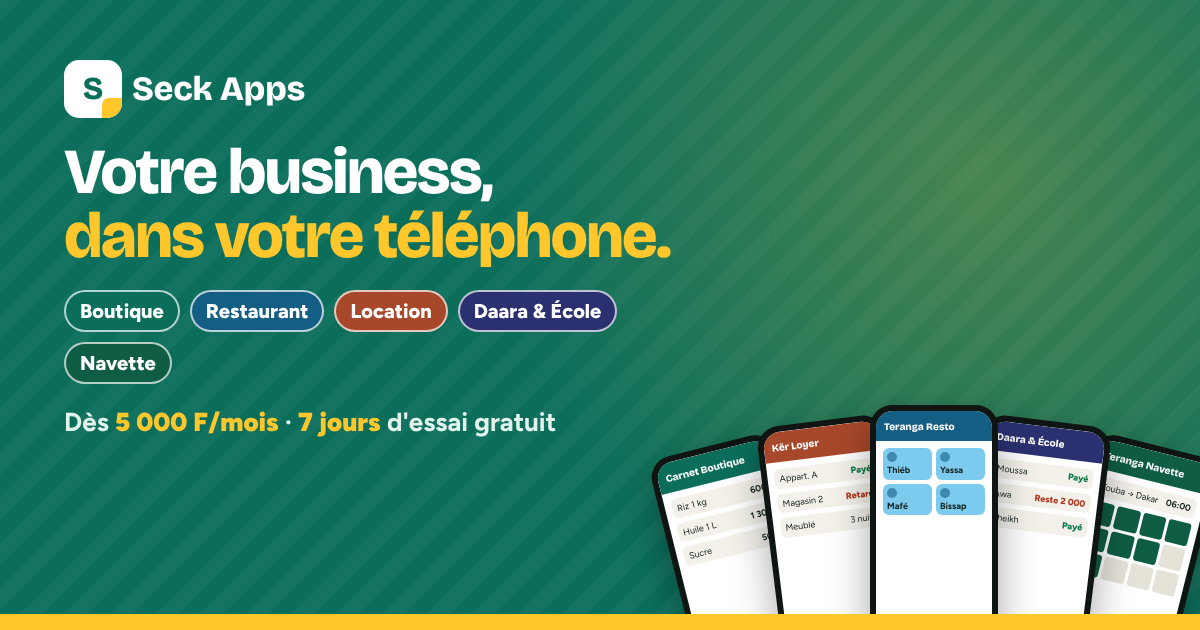
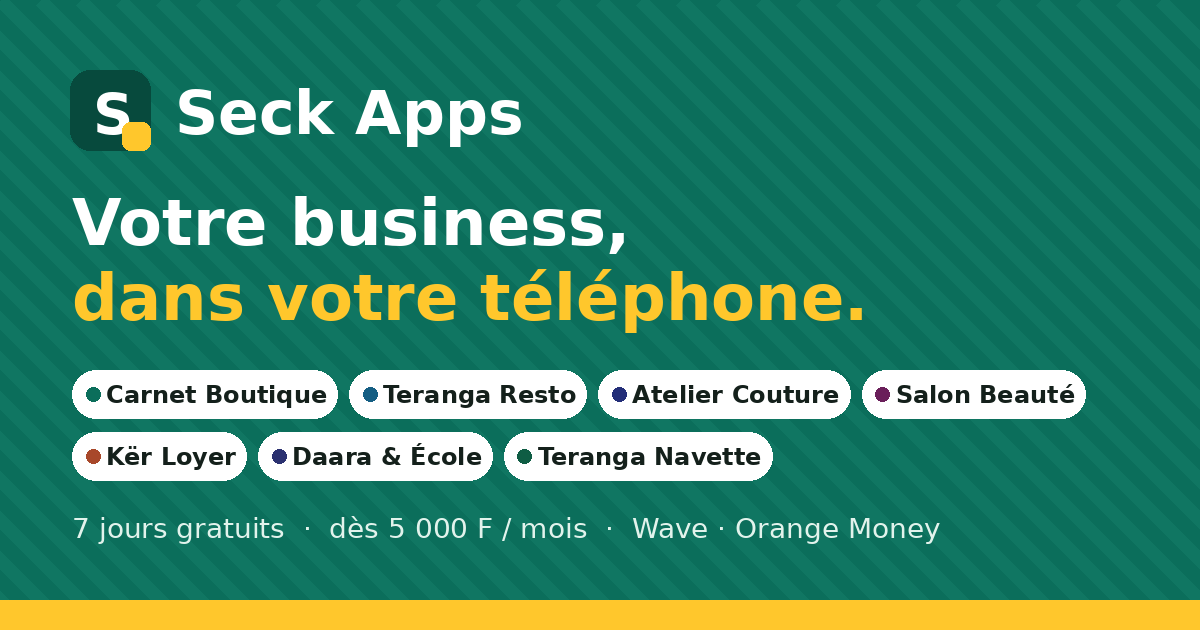
Add files via upload

diff --git a/index.html b/index.html
@@ -4,9 +4,9 @@
 <meta charset="utf-8">
 <meta name="viewport" content="width=device-width, initial-scale=1, viewport-fit=cover">
 <meta name="theme-color" content="#0B6E5B">
-<meta name="description" content="Cinq applications simples pour boutiques, restaurants, locations, daaras et navettes au Sénégal. 7 jours d'essai gratuit, dès 5 000 F/mois.">
+<meta name="description" content="Sept applications simples pour boutiques, restaurants, ateliers de couture, salons de beauté, locations, daaras et navettes au Sénégal. 7 jours d'essai gratuit, dès 5 000 F/mois.">
 <meta property="og:title" content="Seck Apps — Votre business dans votre téléphone">
-<meta property="og:description" content="Boutique, restaurant, location, daara, navette. Dès 5 000 F/mois. 7 jours d'essai gratuit. Wave et Orange Money.">
+<meta property="og:description" content="Boutique, restaurant, couture, salon de beauté, location, daara, navette. Dès 5 000 F/mois. 7 jours d'essai gratuit. Wave et Orange Money.">
 <meta property="og:image" content="https://seckappssn-maker.github.io/seckappssn/copertina.png">
 <meta property="og:image:width" content="1200">
 <meta property="og:image:height" content="630">
@@ -28,6 +28,8 @@
   --loyer:#A8482A;    --loyer-2:#F6C7A8;
   --daara:#2B3170;    --daara-2:#B9BEF5;
   --navette:#0F5D44;  --navette-2:#F2B33D;
+  --couture:#232E78;  --couture-2:#E8B04B;
+  --salon:#6A1F5A;    --salon-2:#F2B08F;
   --display:"Bricolage Grotesque","Arial Narrow",system-ui,sans-serif;
   --body:"Figtree",system-ui,-apple-system,"Segoe UI",Roboto,sans-serif;
   color-scheme:light;
@@ -75,20 +77,21 @@ a{color:inherit}
 
 /* Les cinq écrans en éventail */
 .fan{display:flex;justify-content:center;align-items:flex-end;height:250px;margin-top:8px;position:relative}
-.fan .ph{width:132px;flex:none;margin-inline:-14px;transform-origin:bottom center;box-shadow:0 18px 40px rgba(0,0,0,.35)}
-.fan .ph:nth-child(1){transform:rotate(-14deg) translateY(28px)}
-.fan .ph:nth-child(2){transform:rotate(-7deg) translateY(8px)}
-.fan .ph:nth-child(3){transform:translateY(-6px);z-index:3}
-.fan .ph:nth-child(4){transform:rotate(7deg) translateY(8px);z-index:2}
-.fan .ph:nth-child(5){transform:rotate(14deg) translateY(28px);z-index:1}
-.fan .ph:nth-child(2){z-index:2}
+.fan .ph{width:124px;flex:none;margin-inline:-16px;transform-origin:bottom center;box-shadow:0 18px 40px rgba(0,0,0,.35)}
+.fan .ph:nth-child(1){transform:rotate(-18deg) translateY(46px);z-index:1}
+.fan .ph:nth-child(2){transform:rotate(-12deg) translateY(22px);z-index:2}
+.fan .ph:nth-child(3){transform:rotate(-6deg) translateY(6px);z-index:3}
+.fan .ph:nth-child(4){transform:translateY(-4px);z-index:4}
+.fan .ph:nth-child(5){transform:rotate(6deg) translateY(6px);z-index:3}
+.fan .ph:nth-child(6){transform:rotate(12deg) translateY(22px);z-index:2}
+.fan .ph:nth-child(7){transform:rotate(18deg) translateY(46px);z-index:1}
 @media (prefers-reduced-motion:no-preference){
   .fan .ph{animation:rise .7s cubic-bezier(.2,.8,.2,1) both}
-  .fan .ph:nth-child(2){animation-delay:.06s}.fan .ph:nth-child(3){animation-delay:.12s}
-  .fan .ph:nth-child(4){animation-delay:.18s}.fan .ph:nth-child(5){animation-delay:.24s}
+  .fan .ph:nth-child(2){animation-delay:.05s}.fan .ph:nth-child(3){animation-delay:.1s}.fan .ph:nth-child(4){animation-delay:.15s}
+  .fan .ph:nth-child(5){animation-delay:.2s}.fan .ph:nth-child(6){animation-delay:.25s}.fan .ph:nth-child(7){animation-delay:.3s}
 }
 @keyframes rise{from{translate:0 40px}to{translate:0 0}}
-@media (max-width:520px){.fan{height:200px}.fan .ph{width:104px;margin-inline:-18px}}
+@media (max-width:520px){.fan{height:170px}.fan .ph{width:76px;margin-inline:-12px}.fan .scr{font-size:7px}.fan .scr .bar{font-size:8px;padding:8px 5px 6px}.fan .scr .tot{font-size:8px}}
 
 /* ---------- Téléphone (mini écran) ---------- */
 .ph{background:#0E1512;border-radius:22px;padding:6px;aspect-ratio:9/18.5;max-width:100%}
@@ -110,7 +113,7 @@ a{color:inherit}
 /* ---------- Bandeau de navigation par métier ---------- */
 .pick{padding-block:30px 6px}
 .pick h2{font-size:clamp(26px,5vw,38px);font-weight:800;letter-spacing:-.02em}
-.chipnav{display:grid;grid-template-columns:repeat(5,1fr);gap:10px;margin-top:16px}
+.chipnav{display:grid;grid-template-columns:repeat(4,1fr);gap:10px;margin-top:16px}
 .chipnav a{display:flex;flex-direction:column;gap:6px;text-decoration:none;background:var(--paper);border:1.5px solid var(--line);border-radius:16px;padding:14px 12px;min-width:0}
 .chipnav b{font-family:var(--display);font-size:17px;line-height:1.1}
 .chipnav span{font-size:13px;color:var(--muted)}
@@ -155,12 +158,13 @@ a{color:inherit}
 .app .btns{display:flex;flex-wrap:wrap;gap:10px}
 .app .btns .btn{flex:1 1 170px}
 .app .btn-line{color:var(--c)}
-.more{font-weight:700;color:var(--c);text-underline-offset:3px}
 .boutique{--c:var(--boutique);--c2:var(--boutique-2)}
 .resto{--c:var(--resto);--c2:var(--resto-2)}
 .loyer{--c:var(--loyer);--c2:var(--loyer-2)}
 .daara{--c:var(--daara);--c2:var(--daara-2)}
 .navette{--c:var(--navette);--c2:var(--navette-2)}
+.couture{--c:var(--couture);--c2:var(--couture-2)}
+.salon{--c:var(--salon);--c2:var(--salon-2)}
 .app:nth-child(even){grid-template-columns:.95fr 1.05fr}
 .app:nth-child(even) .side{order:2}
 @media (max-width:820px){
@@ -256,7 +260,7 @@ footer b{color:var(--ink)}
   <div class="wrap">
     <span class="eyebrow">Fait au Sénégal, pour le Sénégal</span>
     <h1>Votre business,<br><em>dans votre téléphone.</em></h1>
-    <p class="lead">Cinq applications simples pour la boutique, le restaurant, la location, la daara et la navette. Tout est noté, calculé et sauvegardé en ligne. En français, avec le wolof.</p>
+    <p class="lead">Sept applications simples pour la boutique, le restaurant, l'atelier de couture, le salon de beauté, la location, la daara et la navette. Tout est noté, calculé et sauvegardé en ligne. En français, avec le wolof.</p>
     <div class="facts">
       <span>7 jours gratuits</span><span>Dès 5 000 F / mois</span><span>Wave · Orange Money</span><span>Téléphone · tablette · ordinateur</span>
     </div>
@@ -264,7 +268,7 @@ footer b{color:var(--ink)}
       <a class="btn btn-gold" data-msg="Bonjour Seck Apps, je veux essayer une application 7 jours gratuits." href="#">
         <svg class="ico" viewBox="0 0 24 24" fill="currentColor" aria-hidden="true"><path d="M12 2a10 10 0 0 0-8.6 15.1L2 22l5-1.3A10 10 0 1 0 12 2zm5.3 14.1c-.2.6-1.3 1.2-1.8 1.2-.5.1-1 .2-3.3-.7-2.8-1.1-4.6-4-4.7-4.1-.1-.2-1.1-1.5-1.1-2.9s.7-2.1 1-2.4c.3-.3.6-.3.8-.3h.6c.2 0 .4 0 .6.5l.9 2.1c.1.2.1.4 0 .5l-.3.5-.4.5c-.1.1-.3.3-.1.6.2.3.8 1.3 1.7 2.1 1.2 1 2.1 1.4 2.4 1.5.3.1.5.1.6-.1l.9-1.1c.2-.3.4-.2.6-.1l2 1c.3.1.5.2.5.3.1.2.1.6-.1 1.2z"/></svg>
         Essayer gratuitement</a>
-      <a class="btn btn-line" href="#apps">Voir les 5 applications</a>
+      <a class="btn btn-line" href="#apps">Voir les 7 applications</a>
     </div>
 
     <div class="fan" aria-hidden="true">
@@ -274,9 +278,15 @@ footer b{color:var(--ink)}
       <div class="ph loyer"><div class="scr"><div class="bar">Kër Loyer</div><div class="in">
         <div class="row"><span>Appart. A</span><span class="ok">Payé</span></div><div class="row"><span>Magasin 2</span><span class="late">Retard</span></div><div class="row"><span>Meublé</span><span>3 nuits</span></div>
         <div class="tot"><span>Octobre</span><span>450 000</span></div></div></div></div>
+      <div class="ph couture"><div class="scr"><div class="bar">Atelier Couture</div><div class="in">
+        <div class="row"><span>Grand boubou</span><span class="pill">Couture</span></div><div class="row"><span>Taille basse</span><span class="ok">Prêt</span></div><div class="row"><span>Kaftan</span><span>Coupe</span></div>
+        <div class="tot"><span>Korité</span><span>147 j</span></div></div></div></div>
       <div class="ph resto"><div class="scr"><div class="bar">Teranga Resto</div><div class="in">
         <div class="tiles"><div class="tile">Thiéb</div><div class="tile">Yassa</div><div class="tile">Mafé</div><div class="tile">Bissap</div></div>
         <div class="tot"><span>Table 4</span><span>7 000 F</span></div></div></div></div>
+      <div class="ph salon"><div class="scr"><div class="bar">Salon Beauté</div><div class="in">
+        <div class="row"><span>09:30 Nattes</span><span class="ok">Payé</span></div><div class="row"><span>11:00 Box braids</span><span>Aïda</span></div><div class="row"><span>14:00 Manucure</span><span class="pill">Prévu</span></div>
+        <div class="tot"><span>Caisse</span><span>27 000 F</span></div></div></div></div>
       <div class="ph daara"><div class="scr"><div class="bar">Daara &amp; École</div><div class="in">
         <div class="row"><span>Moussa</span><span class="ok">Payé</span></div><div class="row"><span>Awa</span><span class="late">Reste 2 000</span></div><div class="row"><span>Cheikh</span><span class="ok">Payé</span></div>
         <div class="tot"><span>Élèves</span><span>86</span></div></div></div></div>
@@ -296,6 +306,8 @@ footer b{color:var(--ink)}
     <nav class="chipnav" aria-label="Applications">
       <a href="#boutique" style="--c:var(--boutique)"><i></i><b>Carnet Boutique</b><span>Commerce, alimentation, quincaillerie</span></a>
       <a href="#resto" style="--c:var(--resto)"><i></i><b>Teranga Resto</b><span>Restaurant, fast-food, dibiterie</span></a>
+      <a href="#couture" style="--c:var(--couture)"><i></i><b>Atelier Couture</b><span>Tailleur, couturière, atelier</span></a>
+      <a href="#salon" style="--c:var(--salon)"><i></i><b>Salon Beauté</b><span>Coiffure, tresses, ongles, barbier</span></a>
       <a href="#loyer" style="--c:var(--loyer)"><i></i><b>Kër Loyer</b><span>Propriétaire, agence, meublés</span></a>
       <a href="#daara" style="--c:var(--daara)"><i></i><b>Daara &amp; École</b><span>Daara, franco-arabe, école privée</span></a>
       <a href="#navette" style="--c:var(--navette)"><i></i><b>Teranga Navette</b><span>Transport, navette, aéroport</span></a>
@@ -369,9 +381,75 @@ footer b{color:var(--ink)}
         </div>
         <div class="btns">
           <a class="btn btn-wa" data-msg="Bonjour, je veux essayer Teranga Resto 7 jours gratuits pour mon restaurant." href="#">Essayer 7 jours</a>
-          <a class="btn btn-line" href="https://seckappssn-maker.github.io/terangaresto/" target="_blank" rel="noopener">Ouvrir l'app</a>
+          <a class="btn btn-line" href="https://seckappssn-maker.github.io/terangaresto/menu.html" target="_blank" rel="noopener">Voir un menu exemple</a>
         </div>
-        <a class="more" href="https://seckappssn-maker.github.io/terangaresto/menu.html" target="_blank" rel="noopener">Voir un exemple de page menu pour vos clients →</a>
+      </div>
+    </article>
+
+    <!-- COUTURE -->
+    <article class="app couture" id="couture">
+      <div class="side">
+        <div class="tagline"><span class="badge">Nouveau</span></div>
+        <p class="for">Pour tailleurs, couturières et ateliers de couture</p>
+        <h3>Atelier Couture</h3>
+        <p class="pitch">Les mesures, les commandes et les avances, sans le cahier. Vos clients suivent leur habit en ligne.</p>
+        <div class="phone-wrap"><div class="ph"><div class="scr"><div class="bar">Commandes <small>Korité · 147 j</small></div><div class="in">
+          <div class="row"><span>Mamadou · Grand boubou</span><span class="pill">Finition</span></div>
+          <div class="row"><span>Awa · Taille basse</span><span class="ok">Prêt</span></div>
+          <div class="row"><span>Fatou · Robe</span><span>Couture</span></div>
+          <div class="row"><span>Ibrahima · Kaftan</span><span class="late">1 j de retard</span></div>
+          <div class="row" style="background:#FDF1D8"><span>Mesures · Awa</span><span>12 ✓</span></div>
+          <div class="tot"><span>Reste à encaisser</span><span>93 000 F</span></div></div></div></div></div>
+      </div>
+      <div class="main">
+        <ul class="feat">
+          <li><span><b>Mesures</b> homme, femme et enfant, gardées pour toutes les prochaines commandes</span></li>
+          <li><span><b>Commandes</b> avec la photo du modèle, le tissu et la date de livraison</span></li>
+          <li><span><b>Avances et reste à payer</b>, rappel de paiement sur WhatsApp</span></li>
+          <li><span>Étapes <b>Coupe, Couture, Finition, Prêt</b> et message « c'est prêt » au client</span></li>
+          <li><span><b>Vos modèles en vitrine</b> avec photos et prix : les clients commandent</span></li>
+          <li><span>Compte à rebours <b>Korité et Tabaski</b></span></li>
+        </ul>
+        <div class="extra"><strong>Inclus :</strong><span>l'espace client. Avec son numéro et son code, le client voit ses commandes, envoie la photo du modèle et ses mesures, prend rendez-vous.</span></div>
+        <div class="price"><div><span class="amount">5 000 F</span> <span class="per">/ mois</span></div>
+          <p class="year">Ou <b>50 000 F l'année</b> : 2 mois offerts</p></div>
+        <div class="btns">
+          <a class="btn btn-wa" data-msg="Bonjour, je veux essayer Atelier Couture 7 jours gratuits pour mon atelier." href="#">Essayer 7 jours</a>
+          <a class="btn btn-line" href="https://seckappssn-maker.github.io/atelier-couture/" target="_blank" rel="noopener">Ouvrir l'app</a>
+        </div>
+      </div>
+    </article>
+
+    <!-- SALON -->
+    <article class="app salon" id="salon">
+      <div class="side">
+        <div class="tagline"><span class="badge">Nouveau</span></div>
+        <p class="for">Pour salons de coiffure, tresses, onglerie, maquillage, barbiers</p>
+        <h3>Salon Beauté</h3>
+        <p class="pitch">L'agenda du salon, la caisse du jour et les clientes fidèles. Elles réservent en ligne.</p>
+        <div class="phone-wrap"><div class="ph"><div class="scr"><div class="bar">Aujourd'hui <small>3 coiffeuses</small></div><div class="in">
+          <div class="row"><span>09:30 · Nattes collées</span><span class="ok">Payé</span></div>
+          <div class="row"><span>11:00 · Box braids</span><span>Aïda</span></div>
+          <div class="row"><span>14:00 · Manucure gel</span><span class="pill">Réservé</span></div>
+          <div class="row"><span>15:30 · Tissage</span><span>Bineta</span></div>
+          <div class="row" style="background:#FBE7DC"><span>Fidélité · Ndèye</span><span>7 / 10</span></div>
+          <div class="tot"><span>Caisse du jour</span><span>27 000 F</span></div></div></div></div></div>
+      </div>
+      <div class="main">
+        <ul class="feat">
+          <li><span><b>Agenda</b> par jour, par coiffeuse, avec rappel WhatsApp à la cliente</span></li>
+          <li><span><b>Caisse du jour</b> : espèces, Wave, Orange Money, et ce que chaque coiffeuse a fait</span></li>
+          <li><span><b>Services et prix</b> avec photos : tresses, mèches, ongles, henné, barbier</span></li>
+          <li><span><b>Carte de fidélité</b> : par exemple 10 visites = 1 brushing offert</span></li>
+          <li><span>Reçu envoyé sur WhatsApp, totaux de la semaine et du mois</span></li>
+        </ul>
+        <div class="extra"><strong>Inclus :</strong><span>votre page de réservation. Les clientes choisissent le service, le jour, l'heure et la coiffeuse. Vous confirmez d'un geste.</span></div>
+        <div class="price"><div><span class="amount">5 000 F</span> <span class="per">/ mois</span></div>
+          <p class="year">Ou <b>50 000 F l'année</b> : 2 mois offerts</p></div>
+        <div class="btns">
+          <a class="btn btn-wa" data-msg="Bonjour, je veux essayer Salon Beauté 7 jours gratuits pour mon salon." href="#">Essayer 7 jours</a>
+          <a class="btn btn-line" href="https://seckappssn-maker.github.io/salon-beaute/" target="_blank" rel="noopener">Ouvrir l'app</a>
+        </div>
       </div>
     </article>
 
@@ -529,6 +607,7 @@ footer b{color:var(--ink)}
       <details><summary>Je ne lis pas bien le français.</summary><p>Les apps ont un bouton wolof et de grosses écritures. On vous explique aussi par vocal WhatsApp.</p></details>
       <details><summary>Que se passe-t-il si je ne paie pas ?</summary><p>Après la date de fin, vous avez 3 jours. Ensuite l'app se met en pause : vos données restent gardées et vous pouvez les regarder. Dès que vous payez, tout repart.</p></details>
       <details><summary>Je peux arrêter quand je veux ?</summary><p>Oui. Vous payez mois par mois, sans contrat. Vous arrêtez quand vous voulez.</p></details>
+      <details><summary>Mes clients peuvent-ils réserver ou commander en ligne ?</summary><p>Oui. Teranga Resto, Atelier Couture, Salon Beauté, Kër Loyer et Teranga Navette donnent une page à vos clients : ils voient vos photos et vos prix, réservent ou commandent, et vous recevez tout dans l'app.</p></details>
       <details><summary>J'ai deux boutiques ou deux restaurants.</summary><p>Chaque boutique ou restaurant a son propre abonnement. Écrivez-nous, on vous aide à tout mettre en place.</p></details>
     </div>
   </section>
@@ -543,7 +622,7 @@ footer b{color:var(--ink)}
   </section>
 </main>
 
-<footer><b>Seck Apps</b> · Sénégal · Applications pour commerçants, restaurants, propriétaires, daaras et transporteurs</footer>
+<footer><b>Seck Apps</b> · Sénégal · Applications pour commerçants, restaurants, couturiers, salons de beauté, propriétaires, daaras et transporteurs</footer>
 
 <div class="sticky"><a class="btn btn-wa" data-msg="Bonjour Seck Apps, je veux essayer une application 7 jours gratuits." href="#">
   <svg class="ico" viewBox="0 0 24 24" fill="currentColor" aria-hidden="true"><path d="M12 2a10 10 0 0 0-8.6 15.1L2 22l5-1.3A10 10 0 1 0 12 2zm5.3 14.1c-.2.6-1.3 1.2-1.8 1.2-.5.1-1 .2-3.3-.7-2.8-1.1-4.6-4-4.7-4.1-.1-.2-1.1-1.5-1.1-2.9s.7-2.1 1-2.4c.3-.3.6-.3.8-.3h.6c.2 0 .4 0 .6.5l.9 2.1c.1.2.1.4 0 .5l-.3.5-.4.5c-.1.1-.3.3-.1.6.2.3.8 1.3 1.7 2.1 1.2 1 2.1 1.4 2.4 1.5.3.1.5.1.6-.1l.9-1.1c.2-.3.4-.2.6-.1l2 1c.3.1.5.2.5.3.1.2.1.6-.1 1.2z"/></svg>
